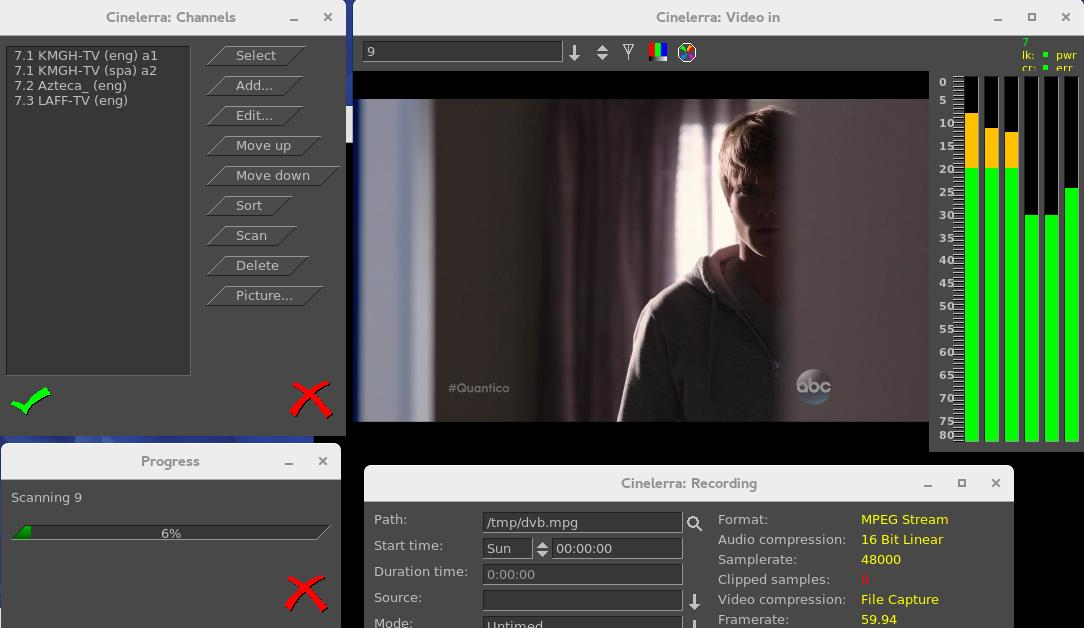
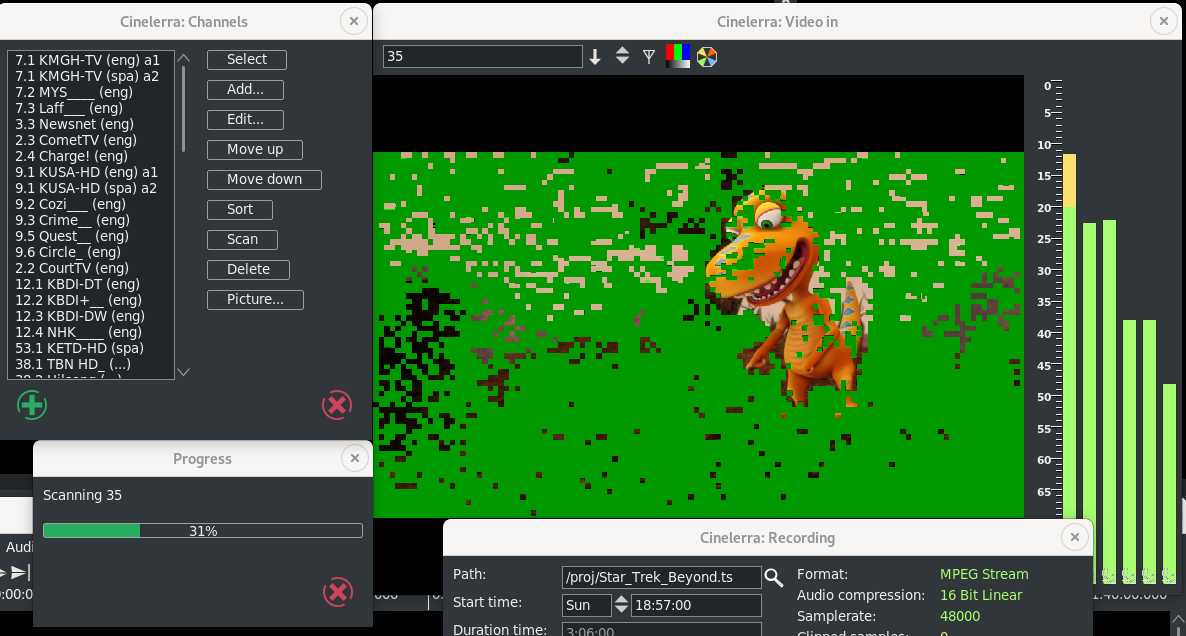
a few improved Recording images in Cakewalk theme

diff --git a/parts/Recording.tex b/parts/Recording.tex
@@ -279,7 +279,7 @@ Figure~\ref{fig:channels02} shows scanning in progress.  Note the \textit{Video 
 \begin{figure}[htpb]
     \centering
     \includegraphics[width=0.99\linewidth]{channels02.png}
-    \caption{Scanning in progress ($6\%$)}
+    \caption{Scanning in progress ($31\%$)}
     \label{fig:channels02}
 \end{figure}
 
@@ -341,12 +341,12 @@ If you have setup for DVB capture as outlined in the first section above, just s
     \item Or press \textit{X-cancel} to terminate and dismiss the \textit{Recording} application.
 \end{itemize}
 
-Figure~\ref{fig:recording04} shows the recording of a currently running broadcast TV program weather report.
+Figure~\ref{fig:recording04} shows the recording of a currently running broadcast TV program news report.
 
 \begin{figure}[htpb]
     \centering
     \includegraphics[width=0.95\linewidth]{recording04.png}
-    \caption{Recording in real-time a tv weather report}
+    \caption{Recording in real-time a TV news report}
     \label{fig:recording04}
 \end{figure}
 
@@ -440,7 +440,7 @@ Figure~\ref{fig:two-monitors04} shows 2 monitors with Compositor window on the 2
 
 \begin{figure}[htpb]
 	\centering
-	\includegraphics[width=0.1\linewidth]{remote01.png}
+	\includegraphics[width=0.7\linewidth]{remote01.png}
 	\caption{Ati-x10 Remote}
 	\label{fig:remote01}
 \end{figure}
@@ -523,18 +523,18 @@ is used to get into remote control mode, even if there is no remote control hard
 
 \CGGI{} has Android remote interface code (figure~\ref{fig:remote02}). Any device, such as a tablet or a smart phone, can be used as long as it is running the Android operating system. Programming an Android Remote Control for DVB is a bit complicated at first, but becomes pretty simple after a bit.
 
+\begin{figure}[htpb]
+	\centering
+	\includegraphics[width=0.9\linewidth]{remote02.png}
+	\caption{Interface tab shows Android Remote Control}
+	\label{fig:remote02}
+\end{figure}
+
 \begin{enumerate}
     \item The Android Remote Control requires you to download and install the Android \textit{CineRmt} app package (apk). To install it simply download it (any way you can) to your phone or tablet and click it to install, if it doesn't run automatically.
     \item In \CGG{}, open \texttt{Settings $\rightarrow$ Preferences $\rightarrow$ Interface} tab, and enable \textit{Android Remote Control} in the Operation section using the checkbox. The default port $23432$ and default PIN value \textit{cinelerra} are OK.
     \item After you install the new phone/tablet app in step 1, start it up from your apps menu.
 \end{enumerate}
-
-\begin{figure}[htpb]
-    \centering
-    \includegraphics[width=0.9\linewidth]{remote02.png}
-    \caption{Interface tab shows Android Remote Control}
-    \label{fig:remote02}
-\end{figure}
 
 Before you can use it, the Android device must have the ip address of your computer entered into the configuration menu.  The PC you are running \CGG{} on and the Android device have to be on the same network.  You can tell it is in communication by tapping the \texttt{Power} (menu) button. When the remote is operated with the \textit{Power} (menu) button, there is a little orange box on the upper left corner of the display to indicate the remote state is active. If you do not see the little orange box when the menu key is tapped, the communication is broken and must be fixed before proceeding.   Follow the directions in the paragraph below.
 
@@ -542,11 +542,11 @@ BIG NOTICE:  the firewalls in your computer and wifi router can stop this thing 
 
 SECTION NOT COMPLETE – (manualandroid)
 
-Figure~\ref{fig:remote03} shows an Android Tablet that can be used as a Remote Control for \CGG{} Recording and Playback.
+Figure~\ref{fig:remote03} shows an Android Smartphone that can be used as a Remote Control for \CGG{} Recording and Playback.
 
 \begin{figure}[htpb]
     \centering
-    \includegraphics[width=0.5\linewidth]{remote03.png}
+    \includegraphics[width=0.7\linewidth]{remote03.png}
     \caption{A Smart Phone with Android Remote Control}
     \label{fig:remote03}
 \end{figure}
